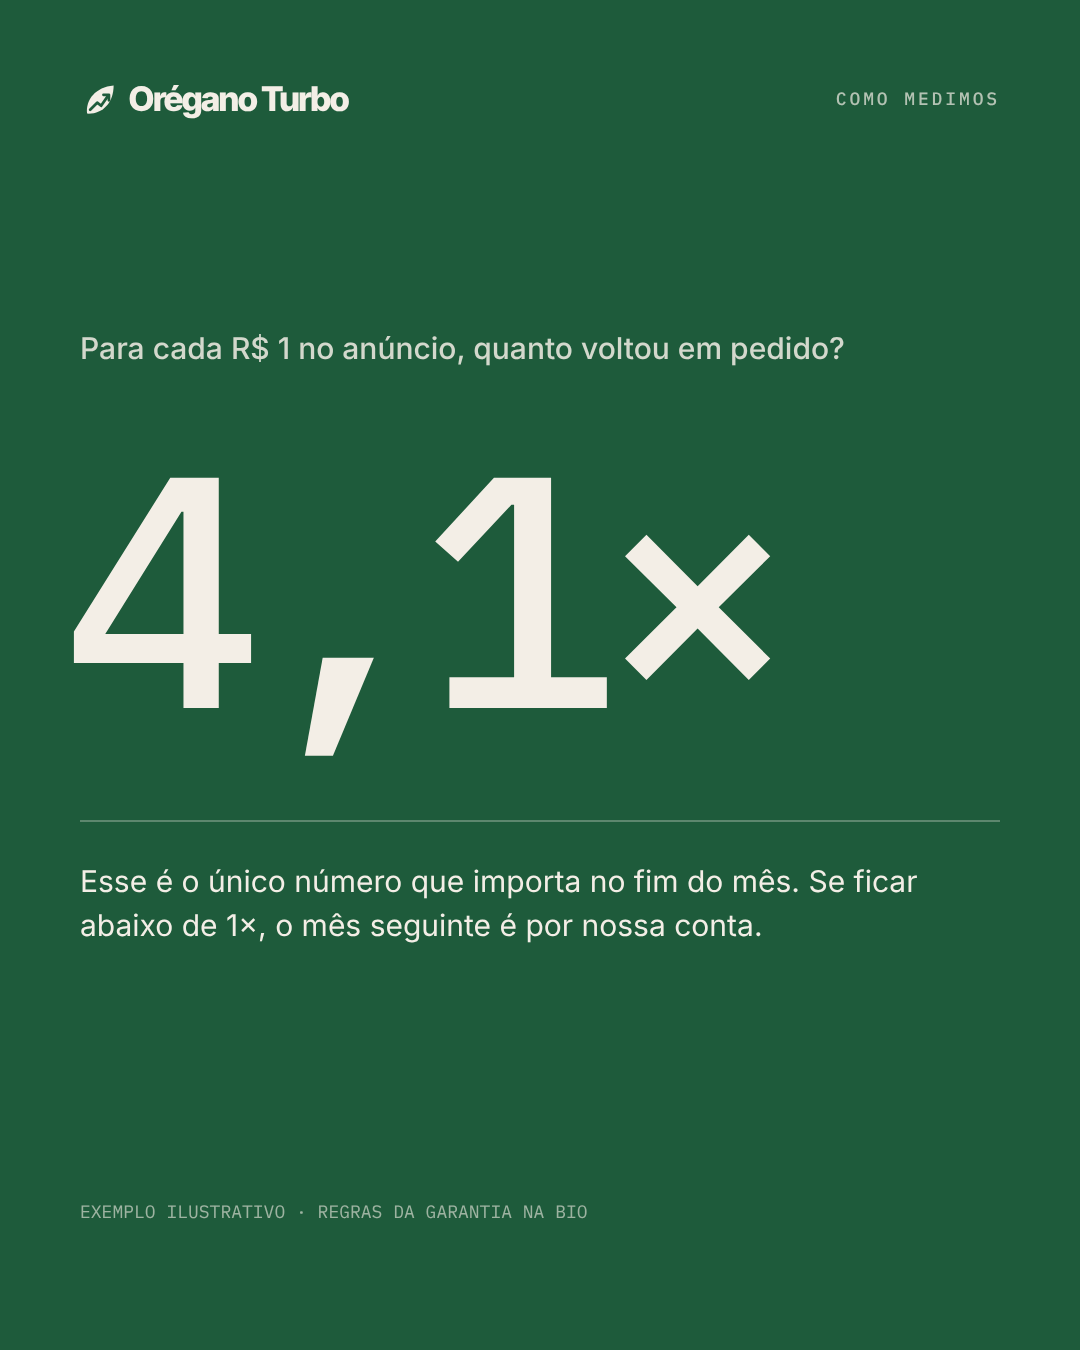
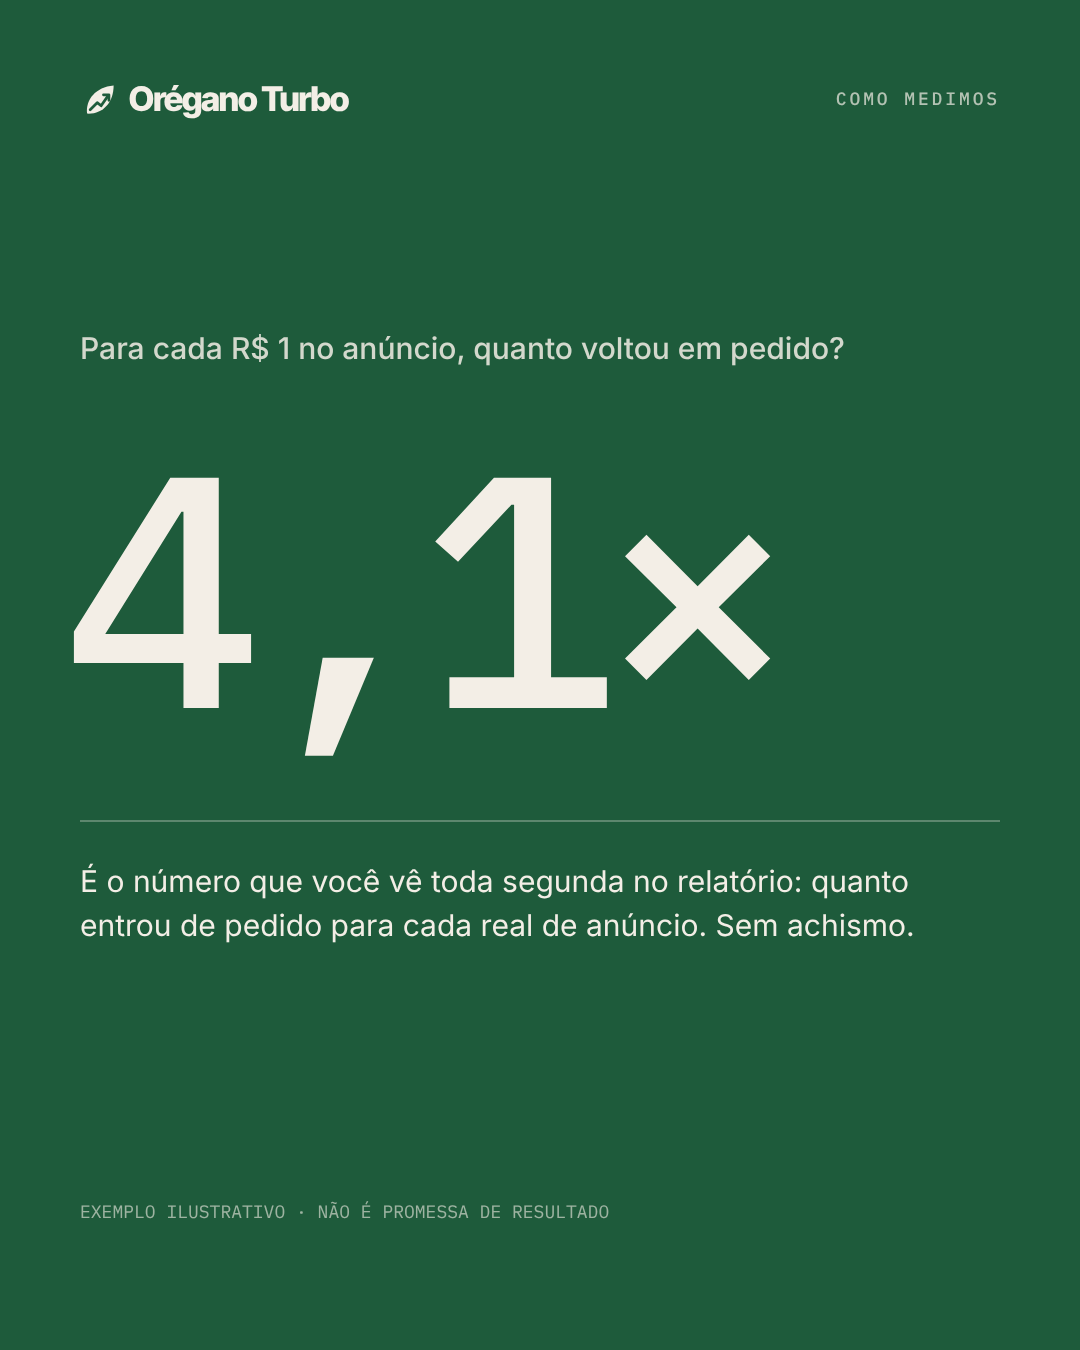
Pizzarias: decisões aprovadas sem os riscos para o Lindson (garantia de resultado retirada, exclusividade por bairro); identidade v3 sem frases de garantia (conta Leandro)
Claude-Session: https://claude.ai/code/session_01LjGnVGVq7Mu7ubhZunrrM6

Changed region(s): [[0.0917, 0.6222, 0.8556, 0.7156], [0.3056, 0.8711, 0.55, 0.9022]]

diff --git a/agencia/operacao-propria/identidade/gerar3.py b/agencia/operacao-propria/identidade/gerar3.py
@@ -56,7 +56,7 @@ P = []
 # 1 · CAPA — Toast: foto real escurecida + título com uma palavra circulada
 P.append(('v3-01-capa', 1080, 1350, CARVAO, fundo_foto('pa-no-forno', .5, '40% center') +
   A(80, 80, logo(46, CREME, VERDE, CREME, sub=False)) + A(720, 96, ETQ('Identidade visual · 2026', CREME)) +
-  A(80, 690, f'<div style="font:800 128px/.95 \'Inter Tight\';letter-spacing:-.05em;color:{CREME}">Mais {circulo("pedidos.")}<br>Toda semana.</div>', 940) +
+  A(80, 690, f'<div style="font:800 128px/.95 \'Inter Tight\';letter-spacing:-.05em;color:{CREME}">Mais {circulo("pedidos.")}<br>Menos achismo.</div>', 940) +
   A(80, 990, f'<div style="font:400 32px/1.4 \'Inter\';color:{CREME};opacity:.85;width:760px">Marketing de vendas para pizzarias. Anúncio, Instagram e WhatsApp trabalhando para o seu forno não parar.</div>') +
   A(80, 1180, f'<div style="display:inline-block;background:{BRASA};color:#fff;font:700 26px \'Inter\';padding:22px 34px;border-radius:999px">Quero mais pedidos →</div>') +
   A(700, 1205, ETQ('Foto real · luz de forno', CREME, 'opacity:.6'))))
@@ -152,7 +152,7 @@ perfil = (f'<div style="padding:16px 20px 0;font-family:Inter;color:#111">'
           f'<div style="display:flex;align-items:center;gap:22px"><div style="width:96px;height:96px;border-radius:50%;background:{VERDE};display:grid;place-items:center;flex:none">{simbolo(60, CREME, VERDE)}</div>'
           f'<div style="display:flex;gap:22px;text-align:center;font:400 14px Inter"><div><b style="font-size:18px">9</b><br>posts</div><div><b style="font-size:18px">—</b><br>seguidores</div><div><b style="font-size:18px">—</b><br>seguindo</div></div></div>'
           f'<div style="font:600 15px Inter;margin-top:12px">Orégano Turbo | Mkt Pizzarias</div>'
-          f'<div style="font:400 14px/1.4 Inter;margin-top:2px">Marketing de vendas só para pizzarias 🍕<br>Anúncio que se paga em pedidos<br>Relatório toda segunda · São Luís/MA<br><span style="color:#00376b">Diagnóstico grátis do seu delivery ↓</span></div>'
+          f'<div style="font:400 14px/1.4 Inter;margin-top:2px">Marketing de vendas só para pizzarias 🍕<br>Anúncio, Instagram e WhatsApp<br>Relatório toda segunda · São Luís/MA<br><span style="color:#00376b">Diagnóstico grátis do seu delivery ↓</span></div>'
           f'<div style="display:flex;gap:6px;margin-top:12px"><div style="flex:1;background:#efefef;border-radius:8px;padding:8px;text-align:center;font:600 14px Inter">Seguir</div><div style="flex:1;background:#efefef;border-radius:8px;padding:8px;text-align:center;font:600 14px Inter">Mensagem</div></div>'
           f'<div style="display:flex;gap:16px;margin:14px 0 10px">' + ''.join(f'<div style="text-align:center;font:400 11px Inter"><div style="width:58px;height:58px;border-radius:50%;border:2px solid #ddd;padding:3px"><div style="width:100%;height:100%;border-radius:50%;background:{c};display:grid;place-items:center;font:800 13px \'Inter Tight\';color:{CREME}">{s}</div></div>{n}</div>' for c, s, n in [(CARVAO, '01', 'Método'), (VERDE, 'R$', 'Planos'), (BRASA, '✓', 'Resultados'), (CARVAO, '?', 'Dúvidas')]) +
           f'</div></div><div style="display:grid;grid-template-columns:repeat(3,1fr);gap:2px">{grade}</div>')
@@ -177,8 +177,8 @@ P.append(('v3-09-post-numero', 1080, 1350, VERDE,
   A(80, 330, f'<div style="font:500 30px \'Inter\';color:{CREME};opacity:.85">Para cada R$ 1 no anúncio, quanto voltou em pedido?</div>', 920) +
   A(64, 420, f'<div style="font:500 330px/1 \'IBM Plex Mono\';letter-spacing:-.06em;color:{CREME}">4,1×</div>') +
   A(80, 820, f'<div style="height:2px;background:{CREME};opacity:.3;width:920px"></div>') +
-  A(80, 860, f'<div style="font:400 30px/1.45 \'Inter\';color:{CREME};width:880px">Esse é o único número que importa no fim do mês. Se ficar abaixo de 1×, o mês seguinte é por nossa conta.</div>') +
-  A(80, 1200, f'<div style="font:400 18px \'IBM Plex Mono\';color:{CREME};opacity:.6">EXEMPLO ILUSTRATIVO · REGRAS DA GARANTIA NA BIO</div>')))
+  A(80, 860, f'<div style="font:400 30px/1.45 \'Inter\';color:{CREME};width:880px">É o número que você vê toda segunda no relatório: quanto entrou de pedido para cada real de anúncio. Sem achismo.</div>') +
+  A(80, 1200, f'<div style="font:400 18px \'IBM Plex Mono\';color:{CREME};opacity:.6">EXEMPLO ILUSTRATIVO · NÃO É PROMESSA DE RESULTADO</div>')))
 
 # 10 · CARTÃO + PROPOSTA (Lightspeed: etiqueta espaçada + título + produto na mão)
 cartao_f = f'<div style="width:420px;height:240px;border-radius:12px;background:{VERDE};padding:30px;display:flex;flex-direction:column;justify-content:space-between;box-shadow:0 30px 60px -20px rgba(0,0,0,.5)">{simbolo(64, CREME, VERDE)}<div style="font:800 34px/1 \'Inter Tight\';letter-spacing:-.04em;color:{CREME}">Orégano Turbo</div></div>'

diff --git a/agencia/operacao-propria/DECISOES-APROVADAS.md b/agencia/operacao-propria/DECISOES-APROVADAS.md
@@ -1,0 +1,66 @@
+# Pizzarias: decisões APROVADAS pelo Lindson (05/11/2026, conta Leandro)
+
+O Lindson aprovou as sugestões de `DECISOES-SUGERIDAS.md` com uma condição: **"só tire as questões que podem me prejudicar"**. Este arquivo é a versão que vale. Onde ele contradiz `PRECOS-PIZZARIAS.md`, `PAGAMENTOS.md` ou `PROMESSA.md`, vale este.
+
+## O que foi tirado ou mudado para proteger o Lindson
+| Item sugerido | Risco para ele | Como ficou |
+|---|---|---|
+| **Garantia de resultado** ("se o anúncio não se pagar, o mês seguinte é por minha conta"), itens 13, 16 e 17 | **Risco de caixa:** trabalhar meses de graça por um resultado que depende da pizzaria (preço, atendimento, entrega, cardápio). **Risco jurídico:** promessa de resultado em anúncio pode ser cobrada como propaganda enganosa (CDC, arts. 30 e 37) | **Retirada.** Volta a ser estudada só depois das 5 fundadoras, com números reais, e com o texto conferido por advogado |
+| "Se não se pagar 2 meses seguidos, sai sem multa" | Cliente sai sem multa por um motivo que não depende de você | **Retirado**, junto com a garantia |
+| Exclusividade da Cidadela num raio de 3 km | Num nicho só, 3 km bloqueia muitas pizzarias que você poderia atender | **Só o bairro da pizzaria, e só enquanto o contrato estiver ativo e pago.** No máximo 1 Cidadela por bairro |
+| Garantia de entrega ("não paga aquele mês") sem condições | O cliente atrasa a aprovação ou a gravação, e a culpa cai em você | **Fica, com condições:** vale só se a pizzaria aprovar os criativos em até 48 horas, liberar a gravação combinada e pagar em dia. Atraso do cliente não conta como falha nossa |
+| Frases da identidade: "Toda semana", "Anúncio que se paga em pedidos", "o mês seguinte é por nossa conta" | Viram promessa de resultado | **Trocadas:** "Mais pedidos. Menos achismo." e "Anúncio, Instagram e WhatsApp". O número dos mockups fica marcado como "exemplo ilustrativo, não é promessa de resultado" |
+| Fundadoras: mostrar os números da pizzaria | Expor dado do cliente sem autorização (LGPD) | **Fica só com autorização por escrito no contrato.** Sem ela, nada é mostrado |
+
+## Decisões que valem
+**Marca**
+1. Identidade **v3 séria** aprovada (já sem as frases de garantia).
+2. Nome **Orégano Turbo**. Registrar no INPI, classe 35, antes de investir em anúncio.
+
+**Preços (por mês, sempre antecipado)**
+
+3. Tabela:
+
+| Plano | Trimestral | Semestral | Anual |
+|---|---|---|---|
+| Muralha | R$ 1.997 | R$ 1.797 | R$ 1.597 |
+| Fortaleza | R$ 2.997 | R$ 2.597 | R$ 2.197 |
+| Cidadela ▲ | R$ 3.997 | R$ 3.697 | R$ 3.497 |
+
+4. Exclusividade da Cidadela: o bairro, enquanto o contrato estiver ativo e pago.
+5. iFood:
+   - **entra:** fotos, descrições, cardápio, combos e destaques;
+   - **não entra:** promoções pagas, taxas, atendimento de pedido e avaliações.
+6. Fundadoras: 5 vagas, preço do anual no prazo semestral. Em troca, autorização **por escrito** para mostrar os números e um depoimento no 3º mês, se a pizzaria quiser.
+7. Raio-X da Pizzaria: R$ 297, abatido no 1º mês se fechar em 7 dias.
+
+**Pagamento e contrato** (o texto final passa por advogado)
+
+8. Pix com o contrato inteiro: 5% de desconto.
+9. Cartão em até 12x pela Hubla.
+10. Atraso: pausa no dia seguinte ao vencimento; contrato encerrado depois de 15 dias, com multa.
+11. Multa de saída antes do fim: 20% dos meses que faltam.
+12. Arrependimento: 7 dias, quando a venda for online ou fora do estabelecimento (é lei). O trabalho começa depois do pagamento.
+
+**A frase de venda, sem garantia de resultado**
+
+13. "Anúncio, Instagram e WhatsApp trabalhando para a sua pizzaria vender mais, com o número na mesa toda segunda."
+14. Verba mínima de anúncio da pizzaria: R$ 1.000 por mês, paga direto à Meta. É **condição do serviço**, não de garantia.
+15. Resposta no WhatsApp em até 15 minutos: **recomendação** no relatório, não cláusula.
+16. Garantia de entrega com as condições da tabela acima, em todos os planos.
+
+**Operação**
+
+17. Corte do formulário: faturamento a partir de R$ 30 mil por mês e disposição de investir R$ 1.000 em anúncio. Abaixo disso, a pizzaria recebe o Raio-X.
+18. Meta: 2 clientes novos por mês; as 5 fundadoras em 60 dias.
+19. Anúncio para atrair pizzarias: R$ 30 por dia nos 2 primeiros meses. Sobe só se o custo por diagnóstico ficar abaixo de R$ 150.
+20. Pró-labore: R$ 3.000 por mês a partir do 3º cliente. O resto fica no caixa até juntar 3 meses de custos.
+21. Franquia Alpha: **não comprar.**
+22. **Ainda falta:** quantos clientes já pagam mensal hoje e quanto cada um paga, para a planilha.
+
+## Próximos passos da equipe (sem depender do Lindson)
+1. Contrato (modelo com as regras acima, com as cláusulas marcadas [conferir com advogado]).
+2. Proposta em PDF com os 3 planos.
+3. Página de planos e formulário que filtra.
+4. Relatório de segunda e ouvidoria na Central.
+5. Os 3 primeiros posts do @oreganoturbo.

diff --git a/PENDENCIAS-DO-LINDSON.md b/PENDENCIAS-DO-LINDSON.md
@@ -77,25 +77,12 @@ Levantamento da conta Leandro em 05/11/2026, a partir do quadro, do registro, do
 - A equipe ainda precisa pô-los no app; o Raposa 13 a 16 está **pausado a seu pedido**: diga quando retomar.
 - Decidir quando retomar a fila de refazer com a voz nova (Passaporte pv-01 e Shorts; Raposa Shorts 19 a 30).
 
-## 11. Operação própria: assessoria para pizzarias (Orégano Turbo), aberta em 05/11
-- **Identidade:** aprovar a **v3 séria** (fotos reais e mockups, `agencia/operacao-propria/identidade/`, manual no privado). Depois disso a equipe faz os 3 primeiros posts.
-- **Preços:**
-  - aprovar os 3 planos (Muralha, Fortaleza e Cidadela ▲, `PRECOS-PIZZARIAS.md`);
-  - definir o raio da exclusividade, o que entra no iFood e a condição de fundador.
-- **Pagamentos:**
-  - confirmar o desconto do Pix (5%);
-  - definir em quantos dias o MRR em atraso encerra o contrato;
-  - definir a multa de saída (com advogado);
-  - escolher onde cobrar no cartão em 12x.
-- **Promessa:** aprovar "o seu anúncio se paga em pedidos, ou o mês seguinte é por minha conta" e as 4 regras de `PROMESSA.md`.
-- **Operação:**
-  - investimento mínimo do formulário;
-  - meta de clientes novos por mês;
-  - quantos clientes pagam plano mensal hoje;
-  - pró-labore;
-  - verba diária do anúncio do Raio-X.
-- **Nome:** conferir "Orégano Turbo" no INPI.
-- **Franquia Alpha:** decidir se responde à oferta de R$ 30 mil (mensagens de negociação em `agencia/ofertas/franquia-alpha/`).
+## 11. Operação própria: assessoria para pizzarias (Orégano Turbo)
+- ✅ 05/11: **todas as decisões aprovadas**, sem a garantia de resultado e com exclusividade só por bairro (`agencia/operacao-propria/DECISOES-APROVADAS.md`). Identidade v3 aprovada.
+- **Falta:**
+  - registrar "Orégano Turbo" no INPI (classe 35);
+  - dizer quantos clientes já pagam mensal hoje e quanto;
+  - levar o contrato a um advogado quando a equipe entregar o modelo.
 
 ## 12. Stories para vender sites (conta Pedro)
 - Aprovar os **10 stories** (4 em vídeo com a sua voz clonada).

diff --git a/REGISTRO-DAS-CONTAS.md b/REGISTRO-DAS-CONTAS.md
@@ -206,3 +206,4 @@ Levantado pela conta Lindson em 01/11/2026 a partir do histórico do git e dos a
 | 05/11/2026 | Leandro (Marketing + Design Squad) | Leo: 10 figurinhas de WhatsApp (estratégia pela persona, pesquisa de 9 refs em 7 países, poses tiradas do Motion v1, contorno branco, .webp 512 px de cerca de 40 KB) e ícone do pacote | `agencia/clientes/leo-pinto/whatsapp-figurinhas/` · arquivos no privado `dados/clientes-arquivos/leo/figurinhas/` | entregue, aguardando aprovação |
 | 05/11/2026 | Leandro | Rodada "faça o que consegue sozinho": story da Eleilde e figurinhas na aba Para aprovar do painel do Leo; guias do Google (Search Console e textos do Perfil da Empresa) para Jaci, Real Time e site do Lindson; "Notícias do nicho" conferida (o /api/noticias no ar exige login e responde; o Google Notícias devolve 16 notícias e o Bing de reserva 3, as duas lidas pelo código da Central); pendências atualizadas | painel `leo.html` (privado) · `GOOGLE.md` de cada cliente · `PENDENCIAS-DO-LINDSON.md` | feito |
 | 05/11/2026 | Leandro | Leo: painel atualizado com a aprovação informada pelo Lindson: 26 itens aprovados, 20 já na aba Postados, e as 6 datas futuras na aba Aprovados (a postar). Memória, pendências e quadro atualizados | privado `painel/leo.html` | feito |
+| 05/11/2026 | Leandro (Hormozi Squad + Maquiavel) | Pizzarias: 24 decisões sugeridas e aprovadas pelo Lindson, sem os riscos para ele: garantia de resultado retirada, exclusividade só por bairro, garantia de entrega com condições, LGPD nas fundadoras. Identidade v3 sem frases de garantia e manual refeito | `agencia/operacao-propria/DECISOES-APROVADAS.md` · `identidade/pecas-v3/` · manual no privado | aprovado |

diff --git a/MEMORIA-DO-LINDSON.md b/MEMORIA-DO-LINDSON.md
@@ -356,3 +356,10 @@ Compilado em 03/11/2026 pela conta Lindson, a partir da conversa completa (22/10
   - os modelos de aniversário B e C.
 
   Esses são os **padrões aprovados do Leo para repetir**. As datas futuras (15/11 a 01/01) ficaram aprovadas na aba "Aprovados (a postar)" do painel.
+- **05/11/2026 (conta Leandro) — Pizzarias: decisões APROVADAS, sem o que pode prejudicar o Lindson.** "Aprovado. Só tire as questões que podem me prejudicar."
+  - **Retirada:** a garantia de resultado ("o mês seguinte é por minha conta"), por risco de caixa e risco de propaganda enganosa.
+  - **Exclusividade:** só o bairro, enquanto o contrato estiver ativo e pago.
+  - **Garantia de entrega:** fica com condições (aprovação do cliente em 48 h, gravação liberada, pagamento em dia).
+  - **Identidade:** sem frases de garantia ("Mais pedidos. Menos achismo.").
+  - **REGRA:** nunca prometer resultado em peça, proposta ou contrato sem o Lindson pedir e sem advogado.
+  - Vale `agencia/operacao-propria/DECISOES-APROVADAS.md`.

diff --git a/agencia/operacao-propria/DECISOES-SUGERIDAS.md b/agencia/operacao-propria/DECISOES-SUGERIDAS.md
@@ -1,5 +1,8 @@
 # Pizzarias: todas as decisões, com a sugestão de cada uma (conta Leandro, 05/11/2026)
 
+> **05/11/2026: aprovado pelo Lindson, com a retirada do que podia prejudicá-lo.** A versão que vale está em `DECISOES-APROVADAS.md`.
+
+
 Pedido do Lindson: "da pizzaria, me sugira tudo para ver se eu concordo". Agentes: Hormozi Squad (Pricing e Offers) e Maquiavel.
 
 **Como responder:** "concordo com tudo" ou "concordo, menos o item N: quero X". Quando ele responder, a equipe monta a página de planos, o formulário, o contrato, a proposta e os 3 primeiros posts.

diff --git a/agencia/operacao-propria/PROMESSA.md b/agencia/operacao-propria/PROMESSA.md
@@ -1,5 +1,8 @@
 # Promessa irresistível · assessoria para pizzarias (baseada em vender)
 
+> **⚠ 05/11/2026: a GARANTIA DE RESULTADO deste arquivo foi RETIRADA** a pedido do Lindson ("tire as questões que podem me prejudicar"). Não usar estas frases em página, anúncio, proposta ou contrato. O que vale está em `DECISOES-APROVADAS.md`.
+
+
 Conta Leandro, 05/11/2026.
 
 - **Pedido do Lindson:** "crie uma promessa irresistível, baseado em vender".

diff --git a/agencia/operacao-propria/PAGAMENTOS.md b/agencia/operacao-propria/PAGAMENTOS.md
@@ -1,5 +1,8 @@
 # Modelos de pagamento: sempre antecipado (MRR ou TCV)
 
+> **05/11/2026: aprovado.** Pix 5%, Hubla, atraso de 15 dias e multa de 20%. A versão que vale está em `DECISOES-APROVADAS.md`.
+
+
 Conta Leandro (Hormozi Squad · Pricing), 05/11/2026.
 
 Pedido do Lindson: "pagamento é sempre antecipado, crie os modelos de pagamentos totais ou mensais, igual à Alpha, modelo MRR, TCV, algo assim".

diff --git a/agencia/operacao-propria/PRECOS-PIZZARIAS.md b/agencia/operacao-propria/PRECOS-PIZZARIAS.md
@@ -1,5 +1,8 @@
 # Preços para pizzarias: sugestão (Hormozi Squad · Pricing, com o Maquiavel)
 
+> **05/11/2026: aprovado com ajustes.** Exclusividade só por bairro e garantia de entrega com condições. A versão que vale está em `DECISOES-APROVADAS.md`.
+
+
 Conta Leandro, 05/11/2026.
 
 **Decisões do Lindson nesta data:**
